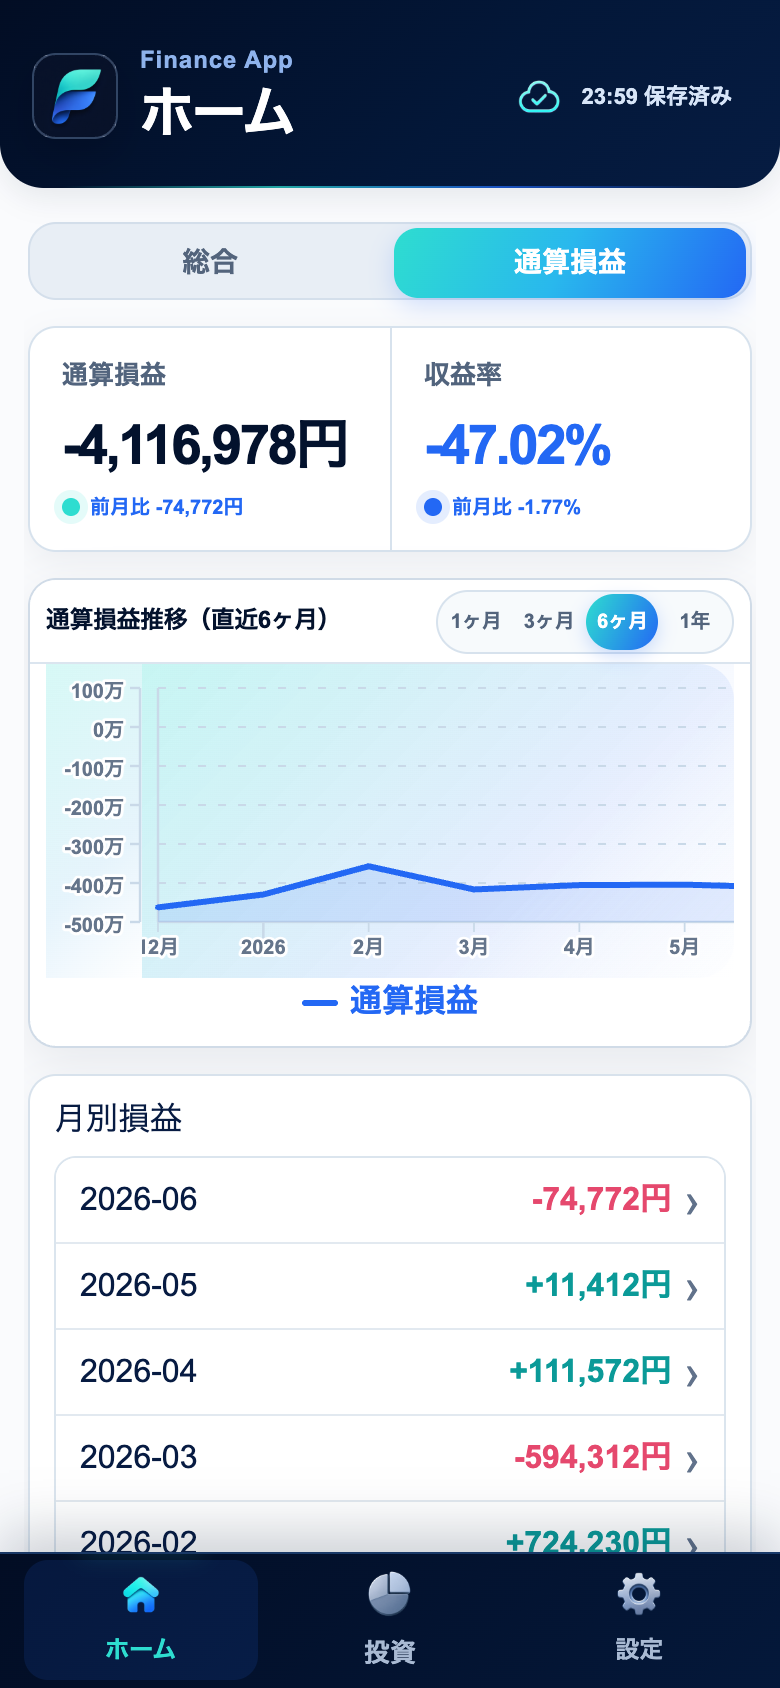
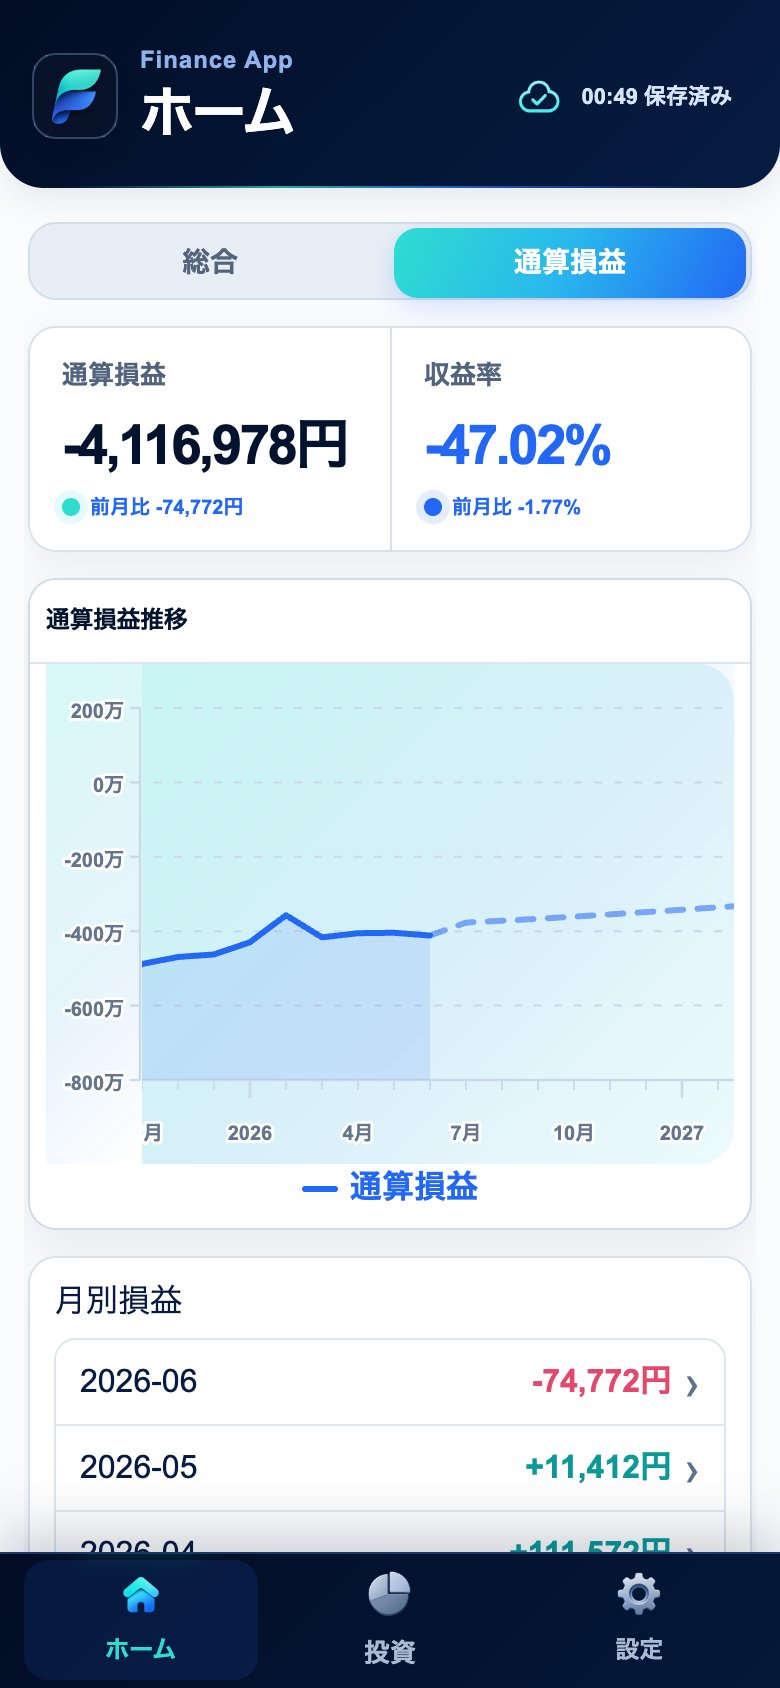
Expand interactive chart range

diff --git a/components/finance/ShortKView.tsx b/components/finance/ShortKView.tsx
@@ -169,7 +169,6 @@ export function ShortKView({
     investment: false,
   });
   const [shortKChartTab, setShortKChartTab] = useState<"cash" | "profit">("cash");
-  const [chartRange, setChartRange] = useState<1 | 3 | 6 | 12>(6);
 
   useEffect(() => {
     const nextSelectedMonth = selectedMonth || currentMonthString();
@@ -220,15 +219,8 @@ export function ShortKView({
           typeof row.assetActual === "number" ||
           typeof row.cashActual === "number",
       );
-      const anchorIndex =
-        lastActualIndex >= 0 ? lastActualIndex : Math.max(shortKSeries.length - 1, 0);
-      const startIndex = Math.max(0, anchorIndex - chartRange);
-      const endIndex = Math.min(
-        shortKSeries.length,
-        anchorIndex + chartRange + 1,
-      );
-      return shortKSeries.slice(startIndex, endIndex).map((row, offset) => {
-        const index = startIndex + offset;
+      const anchorIndex = Math.max(lastActualIndex, 0);
+      return shortKSeries.map((row, index) => {
         const isPredictionRange = index >= anchorIndex;
         return {
           ...row,
@@ -243,27 +235,37 @@ export function ShortKView({
         };
       });
     },
-    [chartRange, shortKSeries],
+    [shortKSeries],
   );
   const visibleProfitSeries = useMemo(() => {
     const lastActualIndex = shortKSeries.findLastIndex(
       (row) => typeof row.cumulativeProfitActual === "number",
     );
-    const anchorIndex =
-      lastActualIndex >= 0 ? lastActualIndex : Math.max(shortKSeries.length - 1, 0);
-    const startIndex = Math.max(0, anchorIndex - chartRange);
-    const endIndex = Math.min(
-      shortKSeries.length,
-      anchorIndex + chartRange + 1,
-    );
-    return shortKSeries.slice(startIndex, endIndex).map((row, offset) => ({
+    const anchorIndex = Math.max(lastActualIndex, 0);
+    return shortKSeries.map((row, index) => ({
       ...row,
       cumulativeProfitPredictionDisplay:
-        startIndex + offset >= anchorIndex
+        index >= anchorIndex
           ? row.cumulativeProfitPrediction
           : undefined,
     }));
-  }, [chartRange, shortKSeries]);
+  }, [shortKSeries]);
+  const latestAssetActualIndex = useMemo(
+    () =>
+      visibleShortKSeries.findLastIndex(
+        (row) =>
+          typeof row.assetActualDisplay === "number" ||
+          typeof row.cashActualDisplay === "number",
+      ),
+    [visibleShortKSeries],
+  );
+  const latestProfitActualIndex = useMemo(
+    () =>
+      visibleProfitSeries.findLastIndex(
+        (row) => typeof row.cumulativeProfitActual === "number",
+      ),
+    [visibleProfitSeries],
+  );
   const monthlyProfitRows = useMemo(() => {
     const actualRows = shortKSeries.filter(
       (row) => typeof row.cumulativeProfitActual === "number",
@@ -508,7 +510,7 @@ export function ShortKView({
         )}
         {shortKChartTab === "cash" ? (
           <MultiLineChart
-            title={`資産推移（直近${chartRange}ヶ月）`}
+            title="資産推移"
             rows={visibleShortKSeries}
             series={[
               {
@@ -539,33 +541,14 @@ export function ShortKView({
               },
             ]}
             showYAxis
-            fitToWidth
             areaKey="assetActualDisplay"
-            chartHeight={157}
-            toolbar={
-              <div className="home-chart-range" role="group" aria-label="グラフ表示期間">
-                {[
-                  [1, "1ヶ月"],
-                  [3, "3ヶ月"],
-                  [6, "6ヶ月"],
-                  [12, "1年"],
-                ].map(([range, label]) => (
-                  <button
-                    key={range}
-                    type="button"
-                    className={chartRange === range ? "active" : ""}
-                    aria-pressed={chartRange === range}
-                    onClick={() => setChartRange(range as 1 | 3 | 6 | 12)}
-                  >
-                    {label}
-                  </button>
-                ))}
-              </div>
-            }
+            chartHeight={250}
+            initialFocusIndex={latestAssetActualIndex}
+            storageKey="finance.shortK.chartZoom.cash"
           />
         ) : (
           <MultiLineChart
-            title={`通算損益推移（直近${chartRange}ヶ月）`}
+            title="通算損益推移"
             rows={visibleProfitSeries}
             series={[
               { key: "cumulativeProfitActual", label: "通算損益", colorIndex: 1 },
@@ -578,30 +561,10 @@ export function ShortKView({
               },
             ]}
             showYAxis
-            fitToWidth
             areaKey="cumulativeProfitActual"
-            chartHeight={157}
+            chartHeight={250}
+            initialFocusIndex={latestProfitActualIndex}
             storageKey="finance.shortK.chartZoom.profit"
-            toolbar={
-              <div className="home-chart-range" role="group" aria-label="損益グラフ表示期間">
-                {[
-                  [1, "1ヶ月"],
-                  [3, "3ヶ月"],
-                  [6, "6ヶ月"],
-                  [12, "1年"],
-                ].map(([range, label]) => (
-                  <button
-                    key={range}
-                    type="button"
-                    className={chartRange === range ? "active" : ""}
-                    aria-pressed={chartRange === range}
-                    onClick={() => setChartRange(range as 1 | 3 | 6 | 12)}
-                  >
-                    {label}
-                  </button>
-                ))}
-              </div>
-            }
           />
         )}
         {shortKChartTab === "profit" && (

diff --git a/components/finance/FinanceCharts.tsx b/components/finance/FinanceCharts.tsx
@@ -89,6 +89,7 @@ export function MultiLineChart({
   fitToWidth = false,
   areaKey,
   chartHeight = 310,
+  initialFocusIndex,
 }: {
   title: string;
   badge?: string;
@@ -108,10 +109,12 @@ export function MultiLineChart({
   fitToWidth?: boolean;
   areaKey?: string;
   chartHeight?: number;
+  initialFocusIndex?: number;
 }) {
   const wrapRef = useRef<HTMLDivElement | null>(null);
   const pinchRef = useRef<{ distance: number; zoom: number } | null>(null);
   const longPressRef = useRef<number | null>(null);
+  const hasPositionedRef = useRef(false);
   const pointerRef = useRef<{
     id: number;
     startX: number;
@@ -159,10 +162,10 @@ export function MultiLineChart({
       : undefined;
   };
 
-  const visibleWidth = 390;
+  const visibleWidth = 346;
   const height = chartHeight;
   const hasRightAxis = showYAxis && series.some((item) => item.axis === "right");
-  const axisWidth = showYAxis ? (height <= 200 ? 48 : 58) : 0;
+  const axisWidth = showYAxis ? (height <= 260 ? 48 : 58) : 0;
   const rightAxisWidth = hasRightAxis ? axisWidth : 0;
   const padLeft = showYAxis ? 8 : 24;
   const padRight = 18;
@@ -189,6 +192,24 @@ export function MultiLineChart({
     scrollViewportWidth,
     padLeft + padRight + Math.max(rows.length - 1, 1) * xStep,
   );
+
+  useEffect(() => {
+    const wrap = wrapRef.current;
+    if (
+      !wrap ||
+      hasPositionedRef.current ||
+      initialFocusIndex === undefined ||
+      initialFocusIndex < 0
+    ) {
+      return;
+    }
+    hasPositionedRef.current = true;
+    window.requestAnimationFrame(() => {
+      const focusX = padLeft + initialFocusIndex * xStep;
+      wrap.scrollLeft = Math.max(0, focusX - wrap.clientWidth * 0.58);
+      setScrollLeft(wrap.scrollLeft);
+    });
+  }, [initialFocusIndex, padLeft, xStep]);
   const visibleStart = Math.max(
     0,
     Math.floor((scrollLeft - padLeft) / Math.max(xStep, 1)) - 2,
@@ -257,7 +278,7 @@ export function MultiLineChart({
   };
 
   const setChartZoom = (nextZoom: number, centerRatio = 0.5) => {
-    const clamped = Math.min(4, Math.max(minZoomForFullView, nextZoom));
+    const clamped = Math.min(12, Math.max(minZoomForFullView, nextZoom));
     const wrap = wrapRef.current;
     if (!wrap) {
       setZoom(clamped);

diff --git a/app/deep-canvas-polish.css b/app/deep-canvas-polish.css
@@ -633,8 +633,8 @@
   }
 
   .shell:has(.chart-tab-panel) .chart-panel {
-    min-height: 235px !important;
-    height: 235px !important;
+    min-height: 326px !important;
+    height: 326px !important;
     margin: 0 !important;
     border-radius: 14px !important;
   }
@@ -646,7 +646,7 @@
   }
 
   .shell:has(.chart-tab-panel) .chart-panel .panel-body {
-    height: 191px !important;
+    height: 282px !important;
     padding: 0 8px 7px !important;
   }
 
@@ -654,8 +654,8 @@
   .shell:has(.chart-tab-panel) .line-chart-wrap,
   .shell:has(.chart-tab-panel) .fixed-y-axis-svg,
   .shell:has(.chart-tab-panel) .line-chart {
-    height: 157px !important;
-    min-height: 157px !important;
+    height: 250px !important;
+    min-height: 250px !important;
   }
 
   .shell:has(.chart-tab-panel) .chart-scroll-shell.has-fixed-y-axis {
@@ -777,7 +777,7 @@
 
   .flat-panel .short-k-input-section-body .compact-actual-row {
     display: grid;
-    grid-template-columns: minmax(72px, 1fr) minmax(64px, 0.72fr) minmax(64px, 0.72fr);
+    grid-template-columns: minmax(0, 1fr) minmax(72px, 92px) minmax(72px, 92px);
     align-items: center;
     gap: 6px;
   }
@@ -887,7 +887,8 @@
 
   .home-actual-columns {
     display: grid;
-    grid-template-columns: minmax(72px, 1fr) minmax(64px, 0.72fr) minmax(64px, 0.72fr);
+    grid-template-columns: minmax(0, 1fr) minmax(72px, 92px) minmax(72px, 92px);
+    padding: 0 10px;
     align-items: center;
     min-height: 18px;
     color: #53647c;
@@ -934,6 +935,9 @@
   }
 
   .shell:has(.chart-tab-panel) .section-head-summary {
+    justify-self: end;
+    width: min(184px, 58vw);
+    max-width: 100%;
     overflow: hidden;
   }
 

diff --git a/components/finance/ShortKLogic.ts b/components/finance/ShortKLogic.ts
@@ -17,7 +17,7 @@ export const SHORT_K_ACCOUNTS = ["WealthNavi", "ROBOPRO", "INDEX", "Active"];
 export const SHORT_M_ACCOUNTS = ["Cash", "WealthNavi", "NASDAQ100", "NISA"];
 
 export const SHORT_K_START = "2024-09";
-export const SHORT_K_END = "2060-12";
+export const SHORT_K_END = "2061-12";
 export const SHORT_K_BUDGET_FALLBACK_MONTH = "2031-06";
 export const SHORT_K_BASE_MONTH = "2024-08";
 export const SHORT_K_BASE_CASH = 2359881;
@@ -1572,4 +1572,3 @@ export function shortKMonthOptions(year: string) {
     return inMonthRange(value);
   });
 }
-

diff --git a/public/sw.js b/public/sw.js
@@ -1,4 +1,4 @@
-const CACHE_NAME = "finance-pwa-v14";
+const CACHE_NAME = "finance-pwa-v15";
 const BASE_PATH = new URL(self.registration.scope).pathname.replace(/\/$/, "");
 const APP_SHELL = [
   `${BASE_PATH}/`,

diff --git a/components/PwaRegister.tsx b/components/PwaRegister.tsx
@@ -2,7 +2,7 @@
 
 import { useEffect } from "react";
 
-const SERVICE_WORKER_VERSION = "14";
+const SERVICE_WORKER_VERSION = "15";
 
 export default function PwaRegister() {
   useEffect(() => {

diff --git a/design-qa.md b/design-qa.md
@@ -20,12 +20,12 @@ also remain within 6 CSS pixels, with no clipping, overflow, or broken images.
 
 | Screen | Score |
 | --- | ---: |
-| Home | 99.93% |
-| Cumulative profit | 99.84% |
+| Home | 99.94% |
+| Cumulative profit | 99.99% |
 | Investment summary | 100.00% |
-| Investment fund | 100.00% |
-| Investment active | 99.98% |
-| Investment FX | 100.00% |
+| Investment fund | 99.99% |
+| Investment active | 99.97% |
+| Investment FX | 99.99% |
 | Settings | 99.90% |
 
 **Automated Checks**
@@ -35,7 +35,9 @@ also remain within 6 CSS pixels, with no clipping, overflow, or broken images.
 - Clipped numeric/value elements: 0
 - Primary bottom tabs and all four investment tabs: operable
 - Home graphs support pinch/Control-wheel zoom and long-press horizontal panning
-- Long-press QA: chart `scrollLeft` moved from 15 to 78 after zoom
+- The continuous graph covers 2024 through 2061 with no period preset controls
+- Full-range pinch QA: chart width reduced to 250px for a 248px viewport
+- Long-press QA: chart `scrollLeft` moved from 248 to 372 after zoom
 - Production build and TypeScript validation: passed
 - Machine-readable results: `/tmp/finance-model-qa/visual-qa.json`
 - Difference images: `/tmp/finance-model-qa/*-diff.png`
